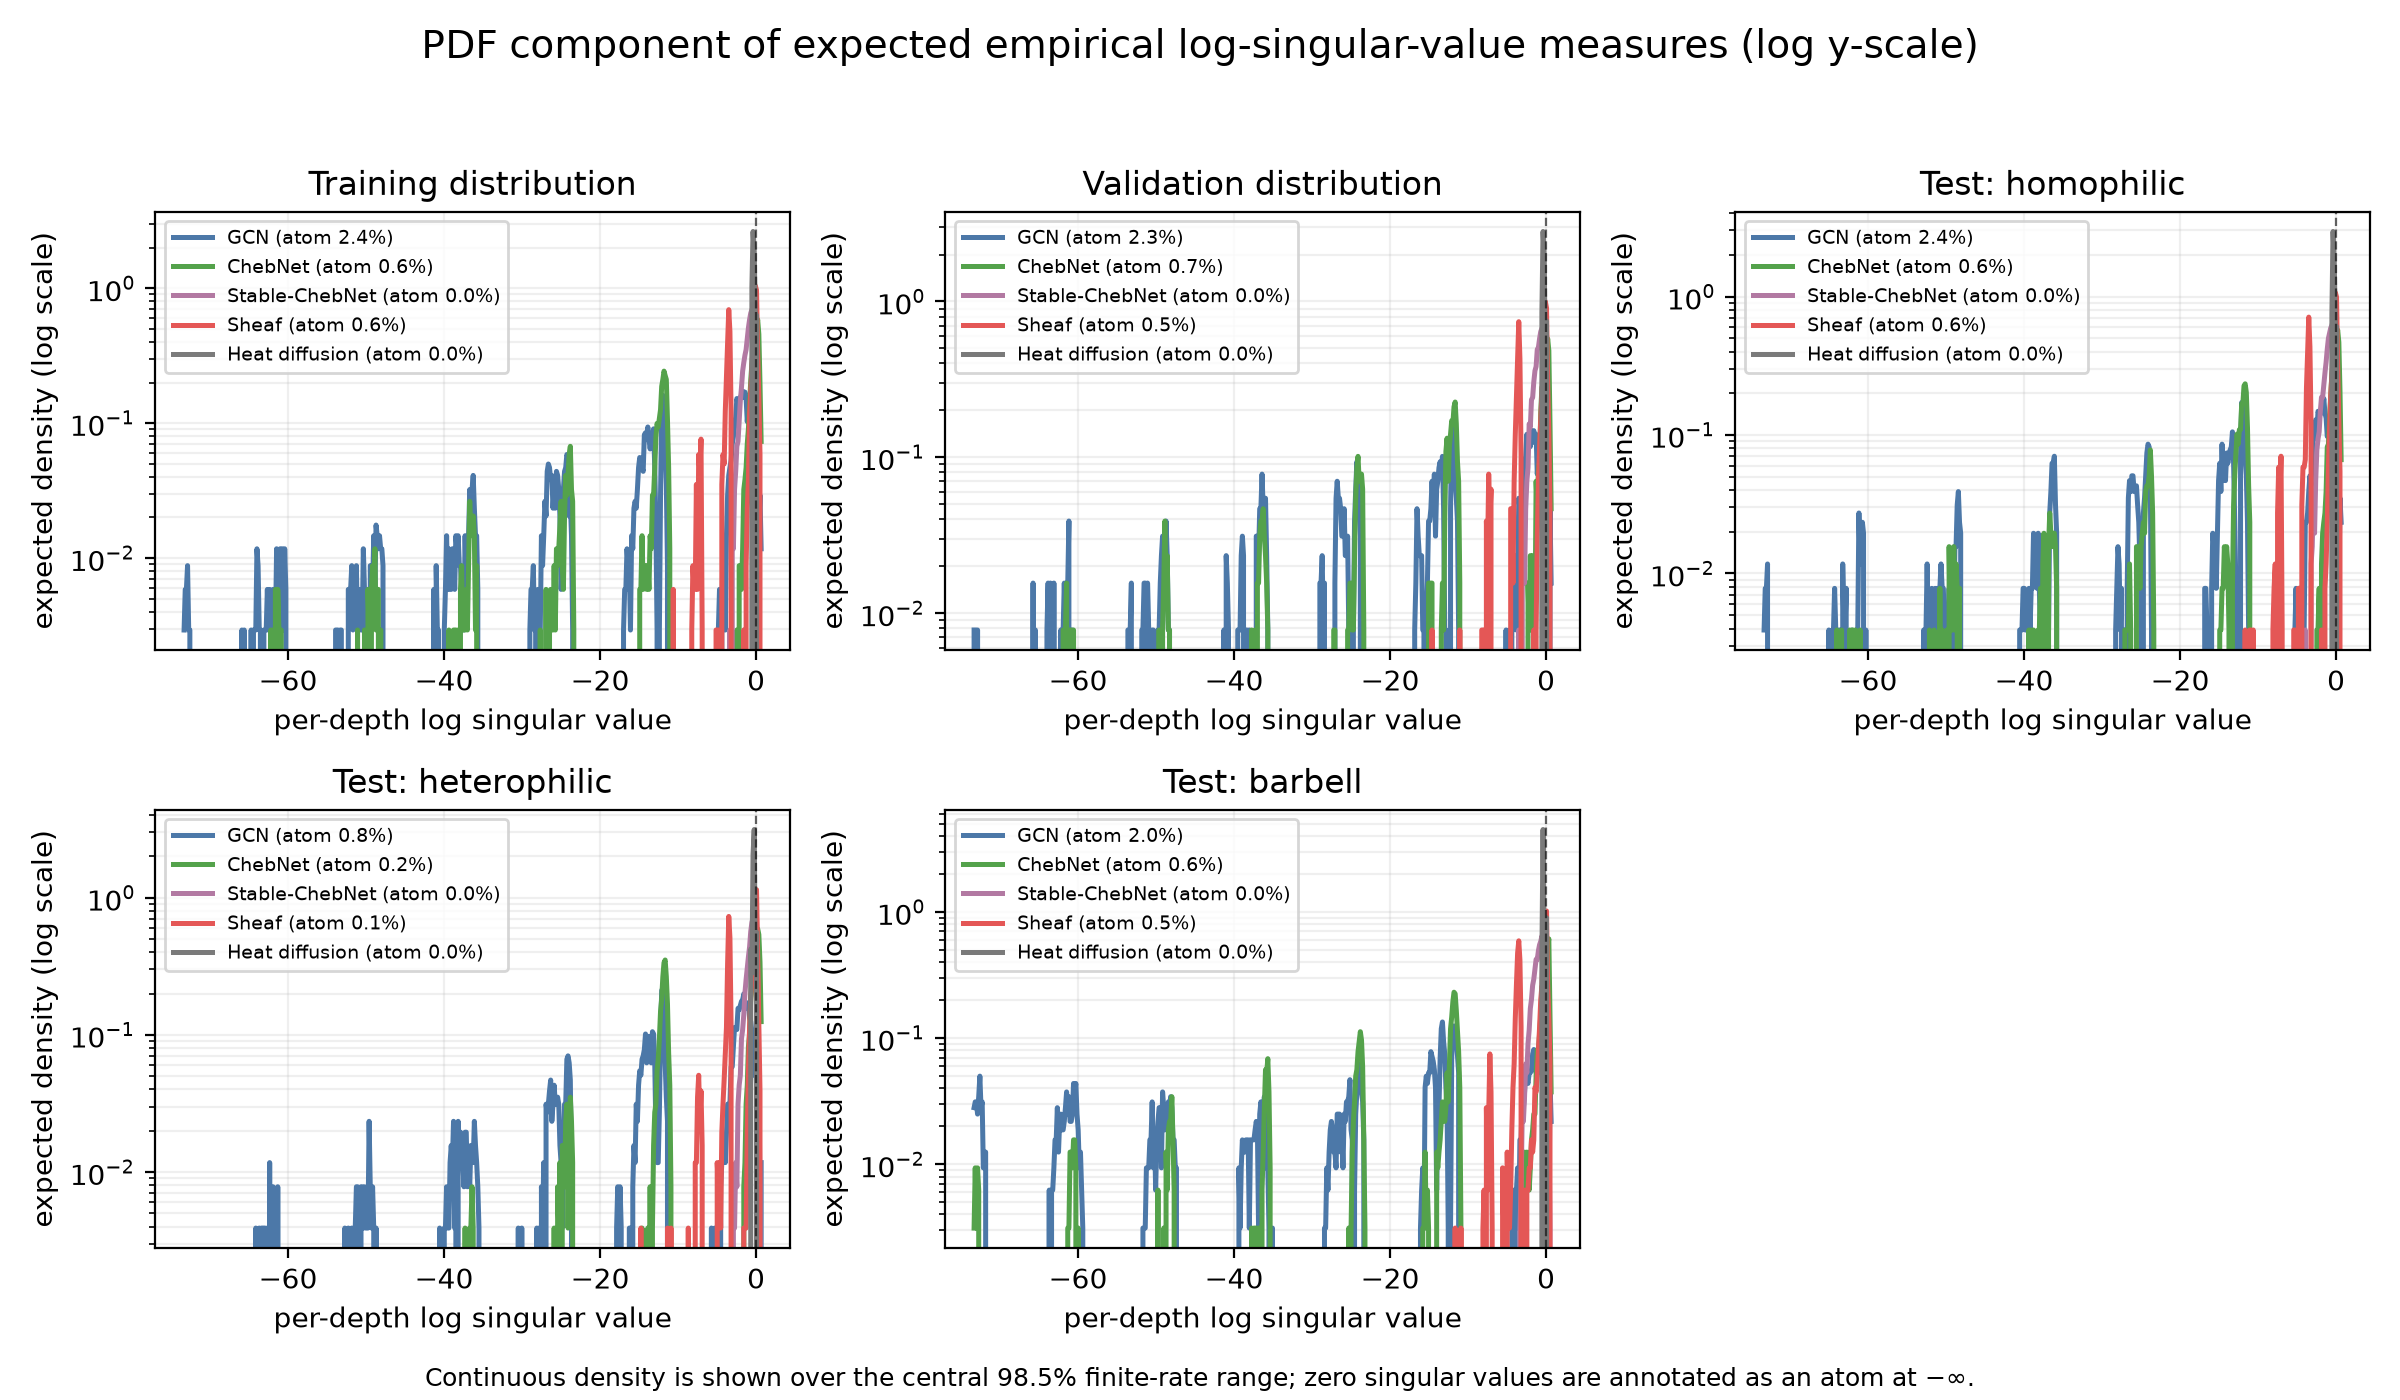
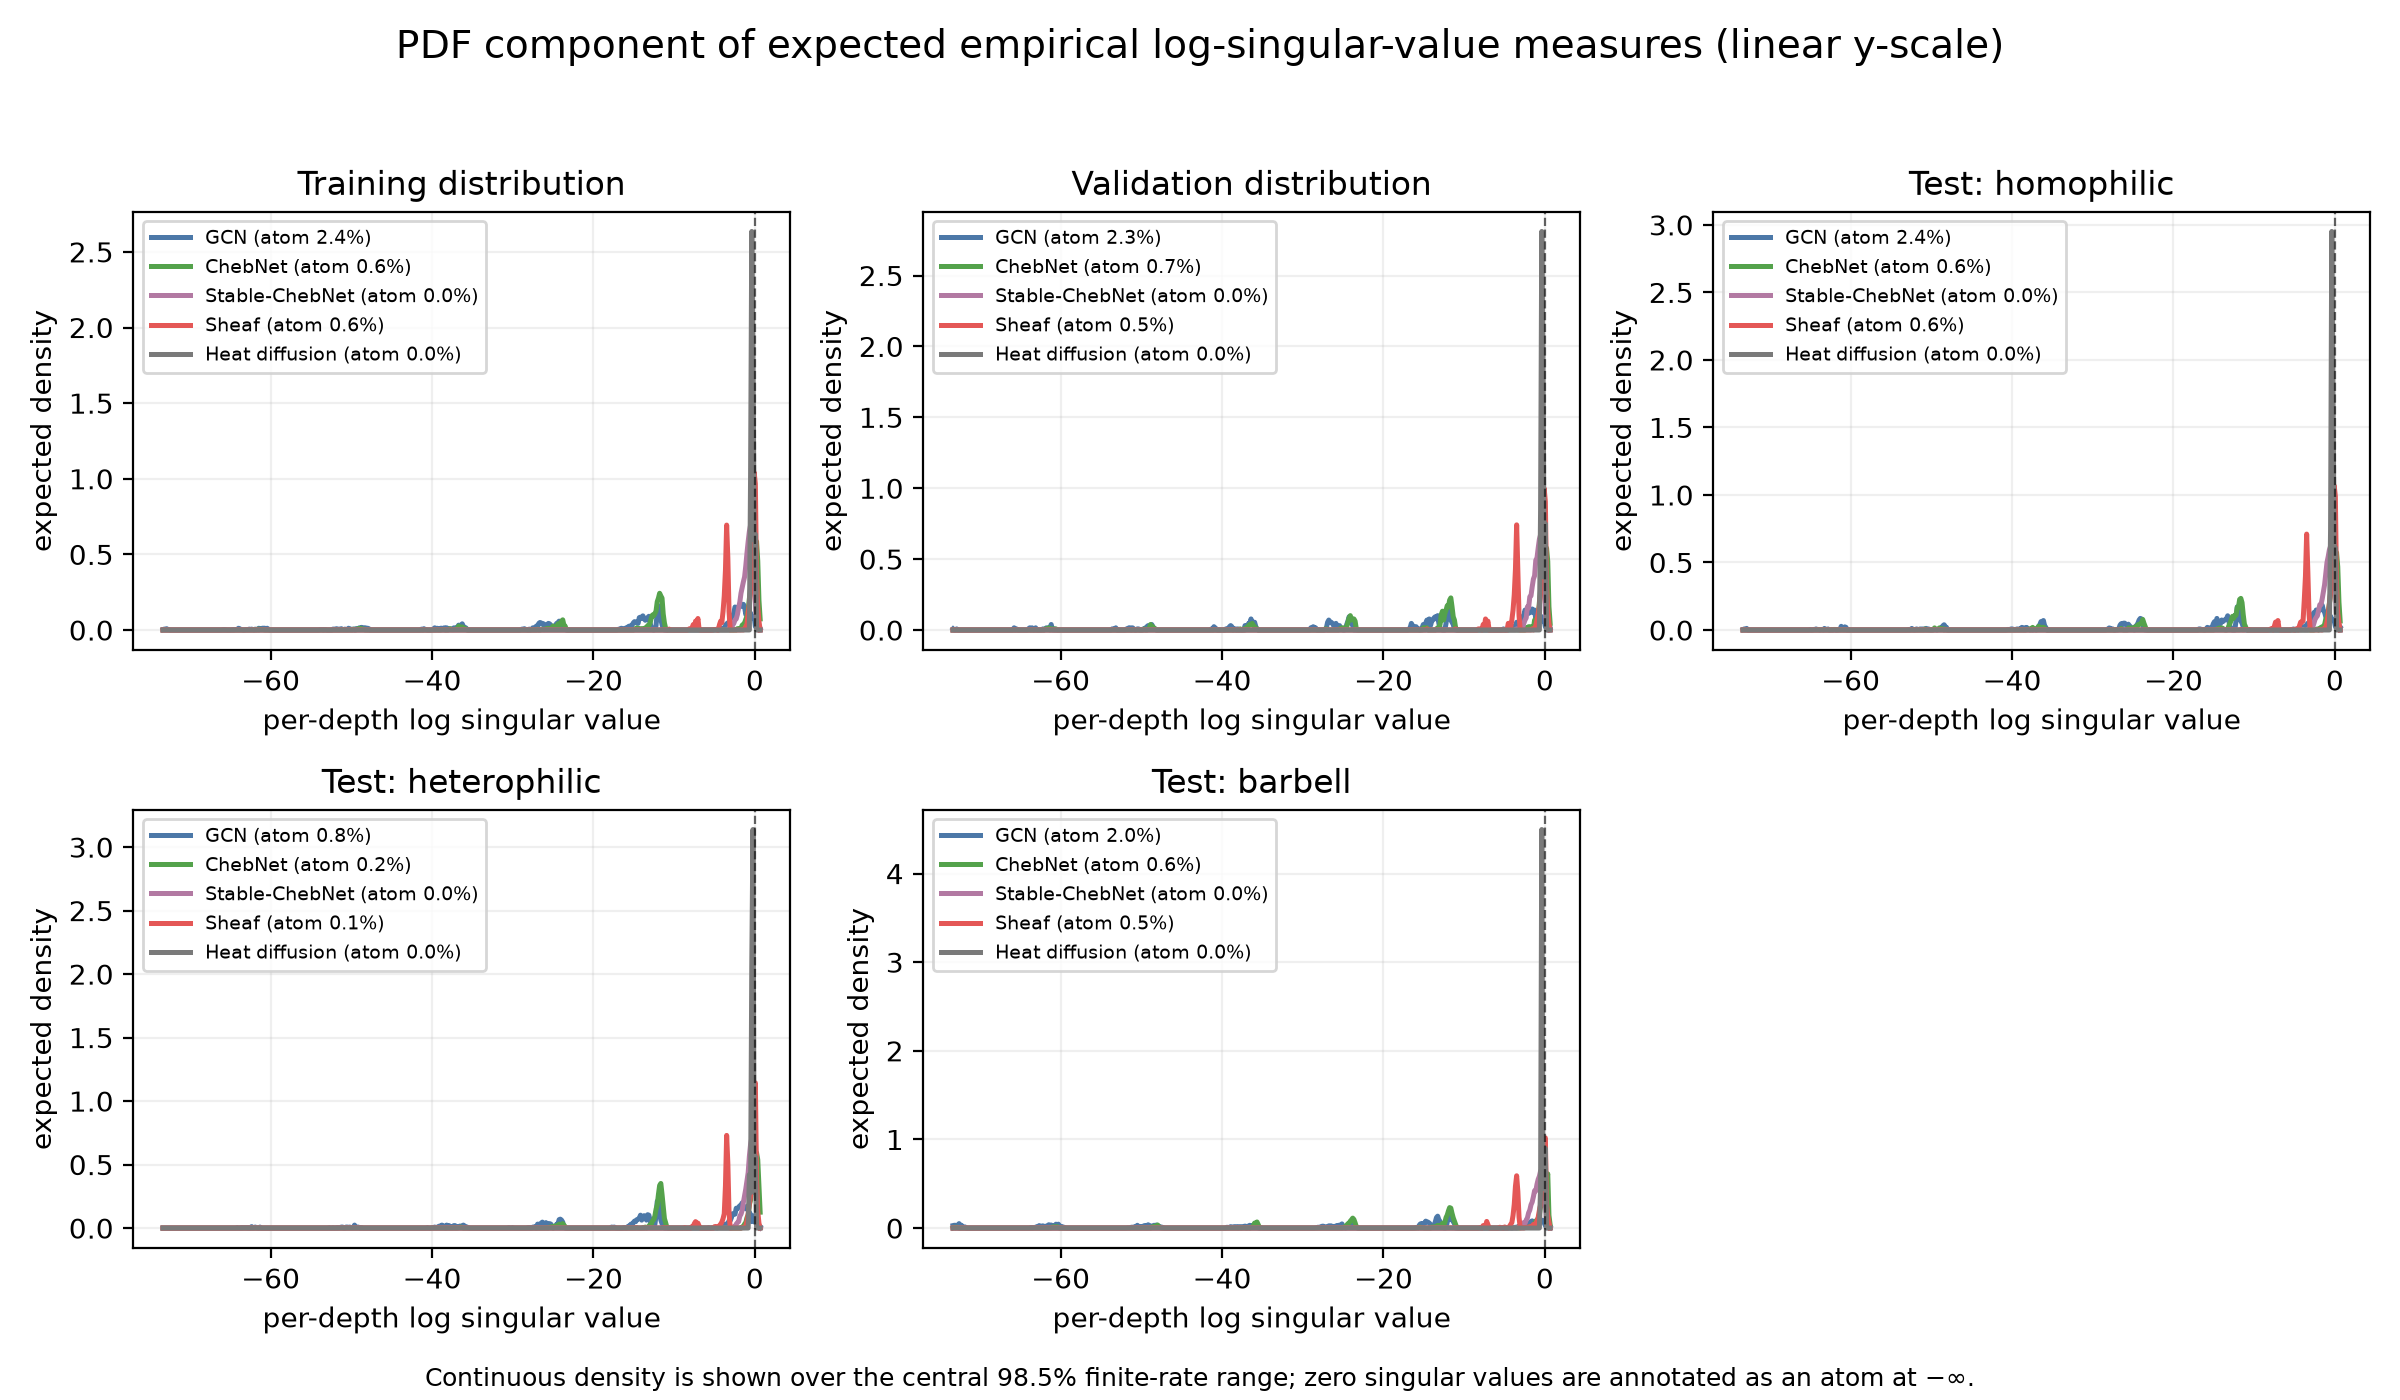
Publish separate linear and log spectral PDF plots

diff --git a/lyapunov-estimator-study.html b/lyapunov-estimator-study.html
@@ -168,7 +168,13 @@
         <img src="/assets/lyapunov-estimator-study/stable_chebnet_expected_spectral_pdfs.png"
              alt="Expected probability density components of per-depth log singular values"
              style="max-width: 100%; height: auto;">
-        <figcaption>Continuous PDF components of the expected empirical spectral measures; zero singular-value atoms are annotated.</figcaption>
+        <figcaption>Continuous PDF components on a linear density axis; zero singular-value atoms are annotated.</figcaption>
+      </figure>
+      <figure>
+        <img src="/assets/lyapunov-estimator-study/stable_chebnet_expected_spectral_pdfs_logy.png"
+             alt="Expected probability density components on a logarithmic density axis"
+             style="max-width: 100%; height: auto;">
+        <figcaption>The same expected PDF components on a logarithmic density axis, revealing low-density tails.</figcaption>
       </figure>
       <figure>
         <img src="/assets/lyapunov-estimator-study/stable_chebnet_spectral_quantile_profiles.png"
